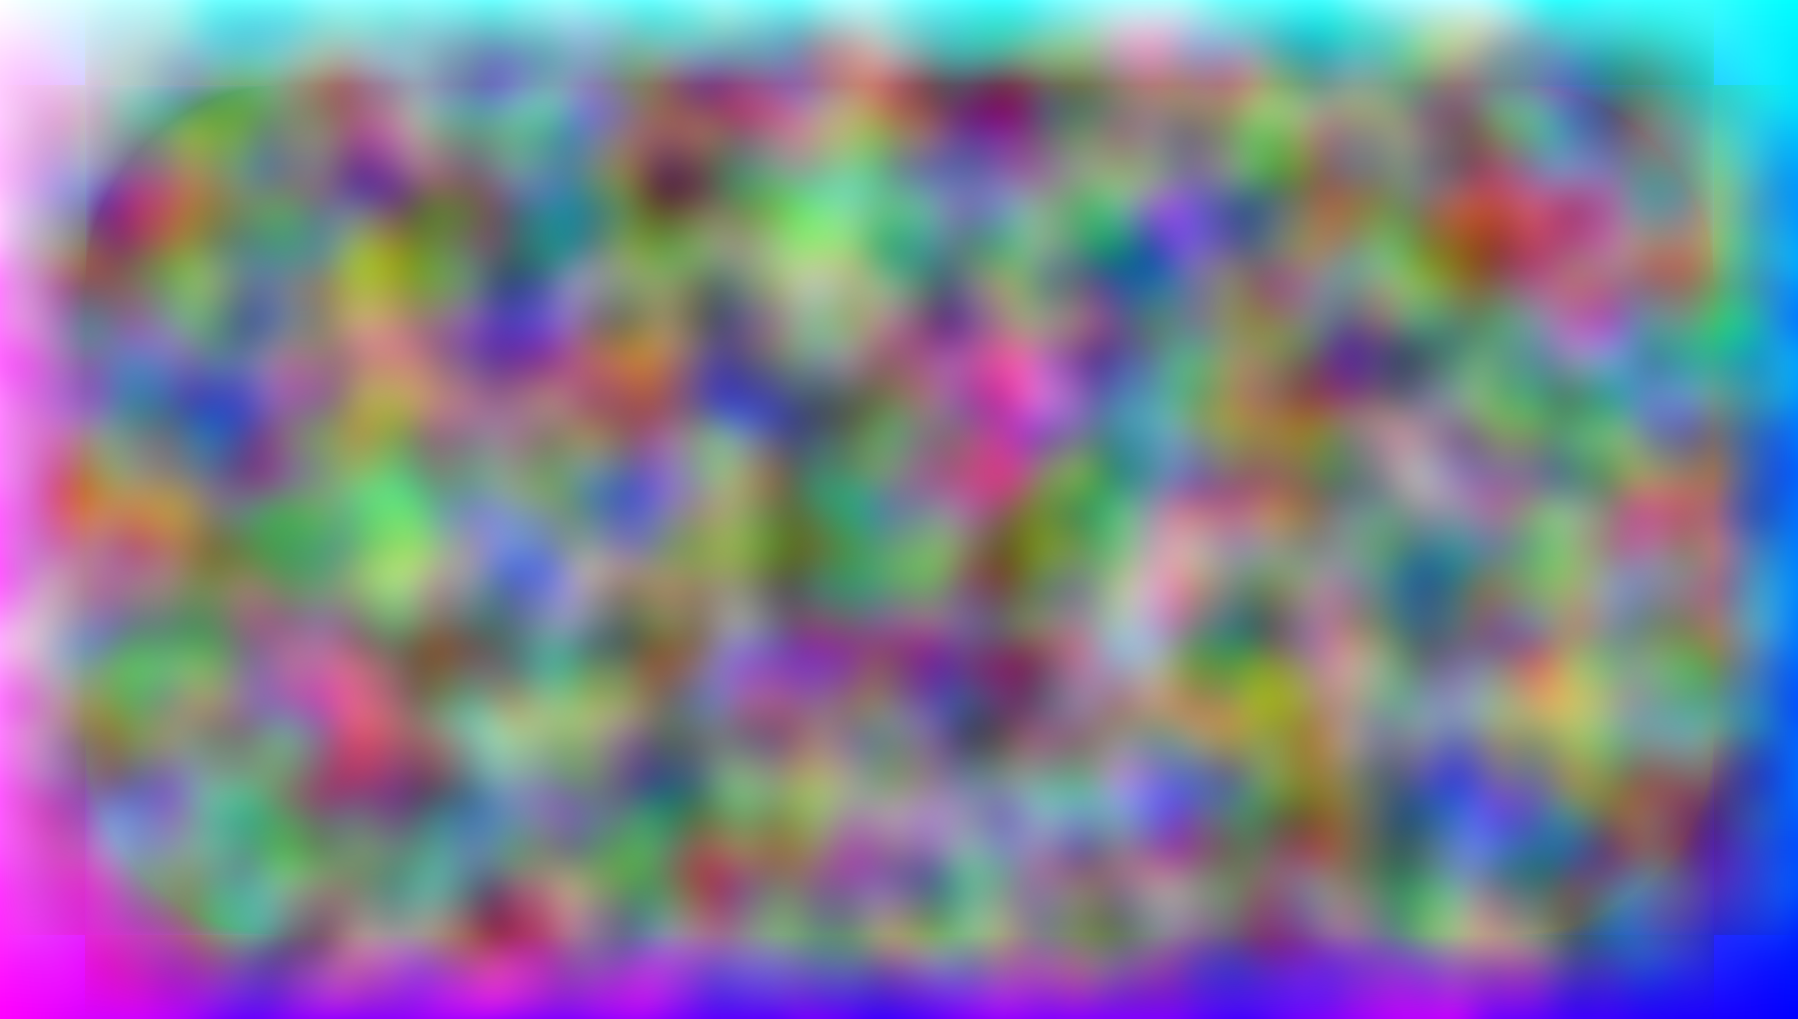
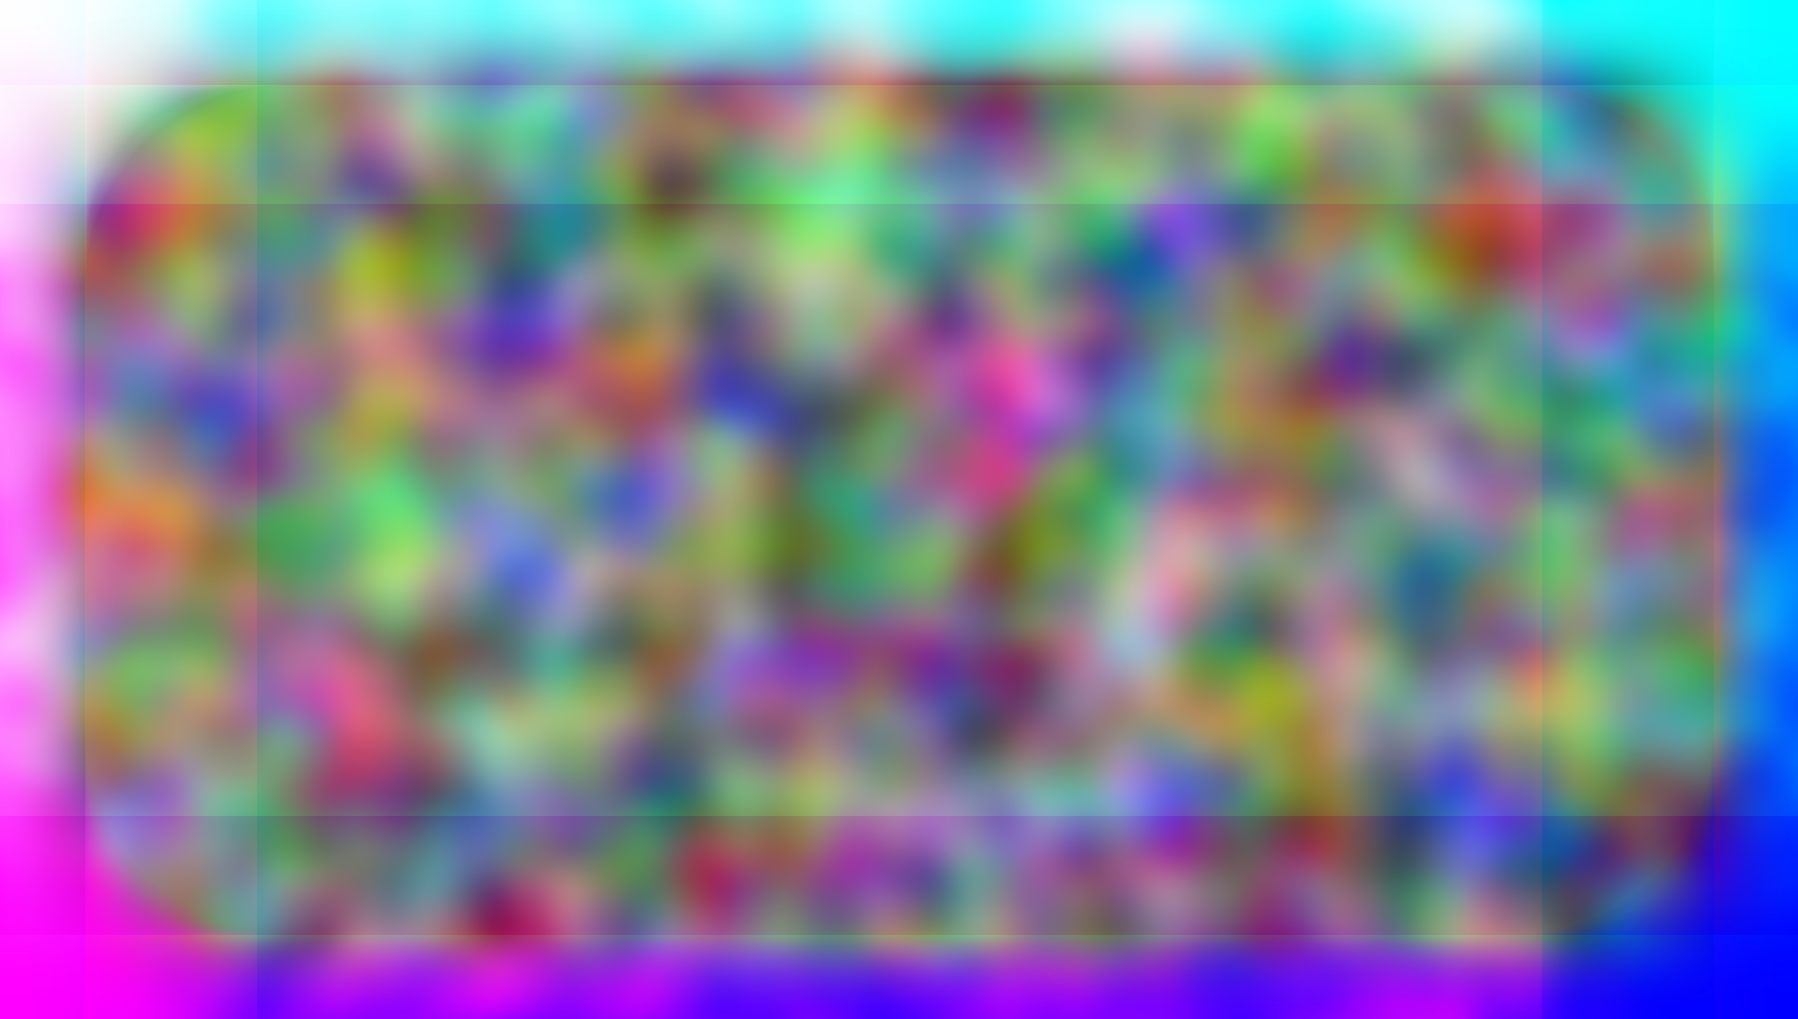
Wide edge, random starting map and light color blob

diff --git a/styles/Home.module.css b/styles/Home.module.css
@@ -4,12 +4,12 @@
     left: 0;
     width: 100%;
     height: 100%;
-    background: linear-gradient(90deg, rgb(160, 210, 200) 0%, rgb(168, 215, 209) 46%, rgb(155, 199, 195) 100%);
+    background: linear-gradient(90deg, rgb(160, 210, 200) 0%, rgb(178, 225, 220) 46%, rgb(155, 199, 195) 100%);
 }
 
 .blob {
     background-color: white;
-    height: 60vw;
+    height: 65vw;
     aspect-ratio: 1;
     position: absolute;
     border-radius: 50%;
@@ -18,8 +18,23 @@
     translate: -50% -50%;
     background: #4c9d94;
     filter: blur(2px);
-    opacity: 0.65;
+    opacity: 0.7;
     animation: move-blob 2400s infinite, change-color 8s infinite;
+}
+
+.blobWhite {
+    background-color: white;
+    height: 25vw;
+    aspect-ratio: 1;
+    position: absolute;
+    border-radius: 50%;
+    left: 50%;
+    top: 50%;
+    translate: -50% -50%;
+    background: #d8fafa;
+    filter: blur(2px);
+    opacity: 0.7;
+    animation: move-blob-white 2200s infinite;
 }
 
 .blur {
@@ -27,7 +42,7 @@
     width: 100%;
     position: absolute;
     z-index: 0;
-    backdrop-filter: blur(12vmax);
+    backdrop-filter: blur(10vmax);
 }
 
 .layer {
@@ -62,73 +77,133 @@
         top: -10%;
         left: 50%;
     }
-    4% {
+    5% {
         top: -10%;
         left: -10%;
     }
-    8% {
+    10% {
         top: 80%;
         left: -20%;
     }
-    12% {
+    15% {
         top: 120%;
         left: 30%;
     }
-    16% {
+    20% {
         top: 140%;
         left: 60%;
     }
-    20% {
+    25% {
         top: -30%;
         left: 80%;
     }
-    24% {
+    30% {
         top: 100%;
         left: 100%;
     }
-    28% {
+    35% {
         top: -30%;
         left: 30%;
     }
-    32% {
+    40% {
         top: -40%;
         left: 120%;
     }
-    36% {
+    45% {
         top: 110%;
         left: 100%;
     }
-    40% {
+    50% {
         top: 100%;
         left: -20%;
     }
-    44% {
+    55% {
         top: -40%;
         left: -40%;
     }
-    48% {
+    60% {
         top: -10%;
         left: 40%;
     }
-    52% {
+    65% {
         top: 80%;
         left: 50%;
     }
-    56% {
+    70% {
         top: 50%;
         left: 70%;
     }
-    60% {
+    75% {
         top: -10%;
         left: 50%;
     }
-    64% {
+    80% {
         top: 30%;
         left: 10%;
+    }
+    85% {
+        top: -10%;
+        left: 50%;
+    }
+    90% {
+        top: 40%;
+        left: 40%;
+    }
+    95% {
+        top: 20%;
+        left: 90%;
     }
     100% {
         top: -10%;
         left: 50%;
+    }
+}
+
+
+@keyframes move-blob-white {
+    0% {
+        top: -5%;
+        left: 90%;
+    }
+    10% {
+        top: 120%;
+        left: 40%;
+    }
+    20% {
+        top: -20%;
+        left: 20%;
+    }
+    30% {
+        top: 80%;
+        left: -10%;
+    }
+    40% {
+        top: 10%;
+        left: 70%;
+    }
+    50% {
+        top: 70%;
+        left: 90%;
+    }
+    60% {
+        top: 50%;
+        left: 10%;
+    }
+    70% {
+        top: 70%;
+        left: 30%;
+    }
+    80% {
+        top: -50%;
+        left: -50%;
+    }
+    90% {
+        top: -50%;
+        left: -50%;
+    }
+    100% {
+        top: 110%;
+        left: -10%;
     }
 }
 

diff --git a/pages/index.tsx b/pages/index.tsx
@@ -9,6 +9,9 @@ const vMaxs = [1.3, 1.35, 1.4, 1.45, 1.5];
 const pixelCounts = [3500,4000,2000,3500,5500];
 const colors = ['rgba(199,155,185,0.92)', 'rgba(220,180,215,0.91)', 'rgba(156,234,245,0.93)',
     'rgba(165,224,246,0.95)', 'rgb(161,233,255)'];
+const mapNames = ['a.png', 'aab.png', 'ab.png', 'abb.png', 'b.png', 'bbc.png', 'bc.png', 'bcc.png', 'c.png', 'ccd.png', 'cd.png', 'cdd.png', 'd.png',  'dde.png', 'de.png', 'dee.png', 'e.png', 'eef.png', 'ef.png', 'eff.png', 'f.png', 'ffg.png', 'fg.png', 'fgg.png', 'g.png', 'gga.png', 'ga.png', 'gaa.png'];
+//const mapNames = ['map1.png', 'map12.png', 'map2.png', 'map23.png', 'map3.png', 'map34.png', 'map4.png', 'map41.png'];
+//const mapNames = ['1.png', '12.png', '2.png', '23.png', '3.png', '34.png', '4.png', '41.png'];
 
 const PI255 = 0.8117;
 var width;
@@ -28,7 +31,7 @@ export default function Home() {
     const canvas3 = useRef(null);
     const canvas4 = useRef(null);
     const canvas5 = useRef(null);
-    const counter = useRef(0);
+    const counter = useRef(Math.floor(Math.random() * mapNames.length));
     const [maps, setMaps] = useState([]);
     const [loading, setLoading] = useState(true);
 
@@ -75,9 +78,6 @@ export default function Home() {
         }
 
         async function loadMaps() {
-            //const mapNames = ['map1.png', 'map12.png', 'map2.png', 'map23.png', 'map3.png', 'map34.png', 'map4.png', 'map41.png'];
-            //const mapNames = ['1.png', '12.png', '2.png', '23.png', '3.png', '34.png', '4.png', '41.png'];
-            const mapNames = ['a.png', 'aab.png', 'ab.png', 'abb.png', 'b.png', 'bbc.png', 'bc.png', 'bcc.png', 'c.png', 'ccd.png', 'cd.png', 'cdd.png', 'd.png',  'dde.png', 'de.png', 'dee.png', 'e.png', 'eef.png', 'ef.png', 'eff.png', 'f.png', 'ffg.png', 'fg.png', 'fgg.png', 'g.png', 'gga.png', 'ga.png', 'gaa.png'];
             const promises = mapNames.map(name => loadImage(`./noiseMaps/${name}`));
             await Promise.all(promises);
             setMaps(mps);
@@ -198,6 +198,7 @@ export default function Home() {
         <div>
             <canvas ref={canvasImg} className={styles.backLayer}/>
             <div className={styles.blob}/>
+            <div className={styles.blobWhite}/>
             <div className={styles.blur}/>
             <canvas ref={canvas1} className={styles.layer}/>
             <canvas ref={canvas2} className={styles.layer}/>

diff --git a/noise_gen/generate_edges.js b/noise_gen/generate_edges.js
@@ -4,19 +4,17 @@ import fs from 'fs';
 const width = 1798; // replace with your image width
 const height = 1019; // replace with your image height
 const dimMin = Math.min(width, height);
+const maxVal = 255;
 const edge = dimMin / 12;
-const rad = Math.floor(dimMin / 5);
+const widthBand = width / 7;
+const heightBand = height / 5;
+const rad = Math.floor(dimMin / 6);
 const cent = rad + edge;
 
 const canvas = createCanvas(width, height);
 const ctx = canvas.getContext('2d');
 const imgData = ctx.createImageData(width, height);
 
-function calcEdgeValue(distEdge, origValue, increase) {
-    if (increase) {
-
-    }
-}
 
 function drawEdges(map) {
     loadImage('./rawMaps/' + map).then((mapImg) => {
@@ -38,6 +36,10 @@ function drawEdges(map) {
                 } else if (x > width - edge && y > cent && y < height - cent) {
                     r = Math.floor((r / edge) * (width - x));
                     b = Math.floor(b + ((255 - b) / edge) * (edge - (width - x)));
+                } else if (x > edge && x < widthBand) {
+                    r = Math.floor(Math.min(r + 25, maxVal));
+                } else if (x < width - edge && x > width - widthBand) {
+                    r = Math.floor(Math.max(r - 25, 0));
                 }
                 if (y < edge && x > cent && x < width - cent) {
                     g = Math.floor(g + ((255 - g) / edge) * (edge - y));
@@ -45,6 +47,10 @@ function drawEdges(map) {
                 } else if (y > height - edge && x > cent && x < width - cent) {
                     g = Math.floor((g / edge) * (height - y));
                     b = Math.floor(b + ((255 - b) / edge) * (edge - (height - y)));
+                } else if (y > edge && y < heightBand) {
+                    g = Math.floor(Math.min(g + 25, maxVal));
+                } else if (y < height - edge && y > height - heightBand) {
+                    g = Math.floor(Math.max(g - 25, 0));
                 }
 
                 const topLeft = Math.sqrt(Math.pow(x - cent, 2) + Math.pow(y -cent, 2));
